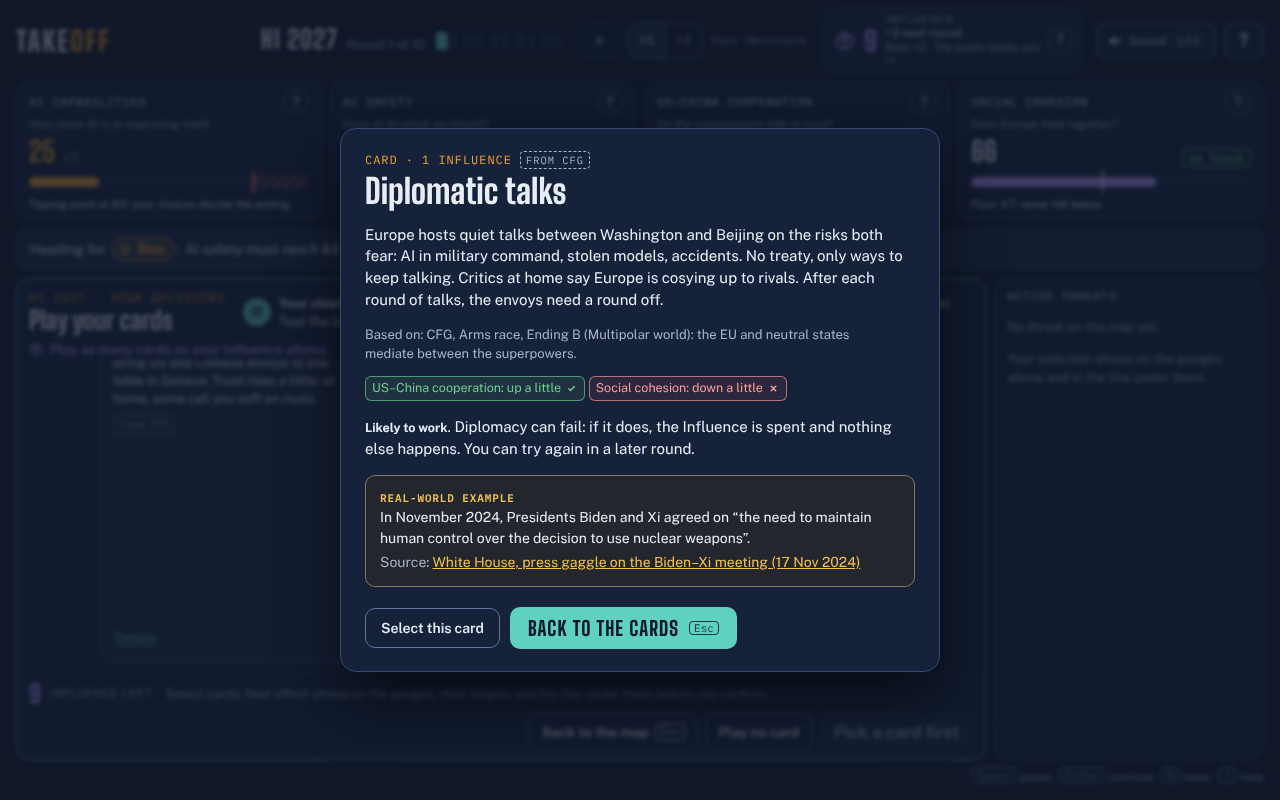
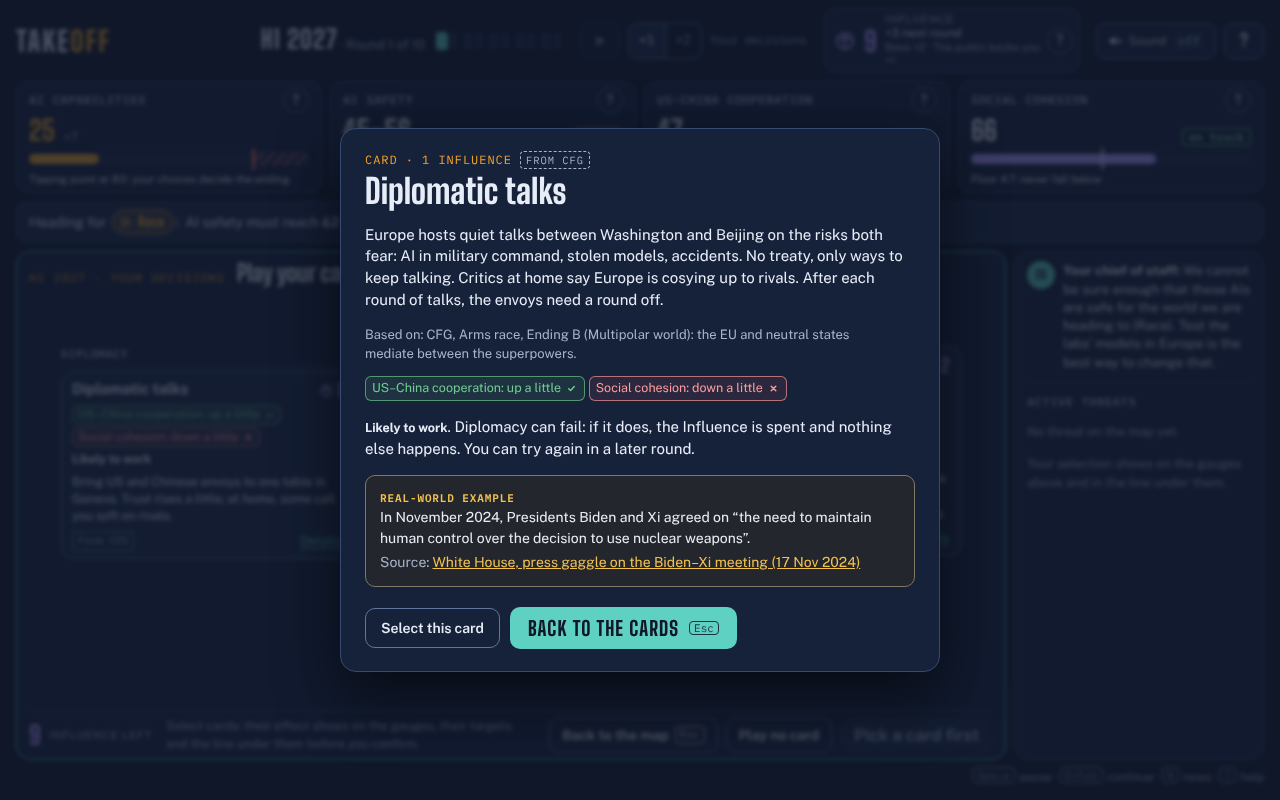
Decisions fit their space: balanced family columns, compact cards that get denser before scrolling; phone gauge chip no longer cut in a preview
- Wide screens: the families follow each other in balanced columns; compact cards (Details at the end of the tags
  row, the level among the tags); a hand taller than its space gets denser cards step by step (texts cut at three
  lines, then two, one, none, always in full in Details and in the card's description) before scrolling inside.
  The header is one line, the chief of staff speaks over the threats, the Confirm bar is one row from 1100px, and
  the gauges' subtitles step aside while deciding on a laptop-height window. Up to about eight cards fit at
  1280x800, ten at 1440x900. Tab order follows the columns.
- Phone: while previewing, a gauge's status chip goes under the words when they do not fit (was "on tr...").
- Screenshots of the decisions refreshed; new mobile-decision-preview-gauges.

Claude-Session: https://claude.ai/code/session_01LSwpJS5xn5SGb1m53Db9uo

diff --git a/src/ui/styles.css b/src/ui/styles.css
@@ -575,10 +575,11 @@ body.jolt .mapwrap { animation: jolt .5s ease; }
 .dk-head { display: flex; gap: 6px 18px; align-items: center; flex-wrap: wrap; }
 .dk-head h2 { margin: 0; font-family: var(--f-display); font-weight: 800; font-size: 26px; line-height: 1.05; }
 .dk-head h2:focus { outline: none; }
-.dk-adv { flex: 1 1 320px; display: flex; gap: 8px; align-items: center; margin: 0; font-size: 13.5px; line-height: 1.35; }
+.dk-say { flex: 1 1 320px; display: flex; flex-direction: column; gap: 3px; min-width: 0; }
+.dk-adv { display: flex; gap: 8px; align-items: center; margin: 0; font-size: 13.5px; line-height: 1.35; }
 .dk-adv .ava { width: 28px; height: 28px; font-size: 12px; }
 .dk-main .hand { margin-top: 8px; }
-.dk-hint { display: flex; gap: 6px; align-items: center; margin: 6px 0 0; font-size: 13.5px; font-weight: 600; color: var(--concern); }
+.dk-hint { display: flex; gap: 6px; align-items: center; margin: 0; font-size: 13.5px; font-weight: 600; color: var(--concern); }
 .dk-hint .ico { width: 15px; height: 15px; flex: none; }
 .dk-bar { display: grid; grid-template-columns: auto minmax(0, 1fr); grid-template-areas: "inf notes" "btns btns"; align-items: center; gap: 6px 14px; border-top: 1px solid var(--rule); padding-top: 7px; margin-top: 8px; }
 .dk-bar .dec-inf { grid-area: inf; margin: 0; }
@@ -587,6 +588,10 @@ body.jolt .mapwrap { animation: jolt .5s ease; }
 .dk-bar .dec-btns { grid-area: btns; flex-wrap: nowrap; }
 .dk-bar .btn-quiet { padding: 8px 12px; }
 .dk-bar .btn-primary { font-size: 17px; padding: 9px 14px; }
+/* a wide window: Influence, the notes and the buttons on one row, so the cards keep the height */
+@media (min-width: 1100px) and (min-height: 541px) {
+  .dk-bar { grid-template-columns: auto minmax(0, 1fr) auto; grid-template-areas: "inf notes btns"; }
+}
 .dk-side { background: var(--deck); border: 1px solid var(--rule); border-radius: 14px; padding: 9px 12px; overflow: auto; min-height: 0; }
 .dk-side-h { margin: 0 0 6px; font-family: var(--f-data); font-size: 11.5px; font-weight: 600; letter-spacing: .08em; text-transform: uppercase; color: var(--mute); }
 .dk-thr { list-style: none; margin: 0; padding: 0; display: grid; gap: 6px; }
@@ -604,6 +609,8 @@ body.jolt .mapwrap { animation: jolt .5s ease; }
 .g-after .good { color: var(--good); } .g-after .bad { color: var(--crit-text); } .g-after .flat { color: var(--ink); }
 .gauge.previewing { box-shadow: 0 0 0 1px var(--align) inset; }
 .gauge.previewing .g-delta { display: none; }
+/* the preview's words and the status chip share the line; on a narrow gauge the chip goes under, never cut */
+.gauge.previewing .g-line { flex-wrap: wrap; row-gap: 2px; }
 .g-ghost { position: absolute; top: -5px; bottom: -5px; width: 0; margin-left: -1px; border-left: 3px dotted var(--ink); z-index: 2; }
 .g-ghost.good { border-left-color: var(--good); } .g-ghost.bad { border-left-color: var(--crit-text); }
 .badge-was { font-size: 12px; color: var(--mute); }
@@ -620,12 +627,66 @@ body.jolt .mapwrap { animation: jolt .5s ease; }
 .fam-new { color: var(--warn); text-transform: none; letter-spacing: 0; }
 .fam-cards { list-style: none; margin: 0; padding: 0; display: flex; flex-wrap: wrap; gap: 10px; flex: 1; }
 .fam-cards > .pc-wrap { width: var(--card-w); max-width: 100%; }
-/* desktop: a small hand sits in the middle of the space the map left (no wider than its cards need), its cards a
-   little larger when the window is tall and there are four at most, rather than in a corner above blank space;
-   a big hand still scrolls inside (the page does not grow) */
+.hand-cols { display: contents; }
+/* desktop: the families follow each other in balanced columns (a family may continue at the top of the next one),
+   so a normal hand of up to nine or so cards fits in the space the map left without scrolling; the cards are
+   compact (long texts cut at three lines, in full in Details and for screen readers). A small hand sits in the
+   middle, no more columns than cards, its cards a little larger when the window is tall. A really big hand still
+   scrolls inside (the page does not grow). Tab follows the columns, top to bottom then left to right. */
 @media (min-width: 768px) and (min-height: 541px) {
-  .dk-main .hand { container: hand / inline-size; }
-  .dk-main .hand.few { flex: 0 1 auto; margin: auto 0; justify-content: center; }
+  /* one header line: the date, the title and the hint */
+  .dk-title { display: flex; align-items: baseline; gap: 4px 12px; flex-wrap: wrap; }
+  .dk-head h2 { font-size: 24px; }
+  .dk-main { padding: 8px 12px 6px; }
+  .dk-bar { padding-top: 6px; margin-top: 6px; }
+  .dk-bar .btn-quiet { padding: 7px 12px; }
+  .dk-bar .btn-primary { padding: 7px 14px; }
+  .decide { grid-template-columns: minmax(0, 1fr) 250px; }
+  .dk-side > .dk-adv { align-items: flex-start; margin: 0 0 12px; padding-bottom: 10px; border-bottom: 1px solid var(--rule); }
+  .dk-main .hand { container: hand / inline-size; display: block; margin-top: 6px; }
+  .dk-main .hand.few { flex: 0 1 auto; margin: auto 0; }
+  .hand-cols { display: block; columns: 200px var(--cols, 6); column-gap: 12px; }
+  .hand.few .hand-cols { max-width: calc(var(--cols, 4) * 300px); margin: 0 auto; }
+  .hand-cols .fam { display: block; max-width: none; }
+  .hand-cols .fam + .fam { margin-top: 8px; }
+  .hand-cols .fam-h { break-after: avoid; margin-bottom: 5px; font-size: 11.5px; letter-spacing: .05em; }
+  .hand-cols .fam-cards { display: block; }
+  .hand-cols .fam-cards > .pc-wrap { width: auto; break-inside: avoid; margin-bottom: 8px; }
+  .hand-cols .pcard { gap: 5px; padding: 8px 10px 5px; }
+  .hand-cols .pc-name { font-size: 15px; }
+  .hand-cols .pc-cost { font-size: 20px; }
+  .hand-cols .pc-cost .ico { width: 15px; height: 15px; }
+  .hand-cols .pc-chips { gap: 3px; }
+  .hand-cols .pc-chips .chip { font-size: 12px; line-height: 1.3; padding: 1px 6px 1px 5px; }
+  .hand-cols .pc-prot, .hand-cols .pc-odds { font-size: 12px; line-height: 1.3; }
+  .hand-cols .pc-text { font-size: 12.5px; line-height: 1.36; display: -webkit-box; -webkit-box-orient: vertical; -webkit-line-clamp: 3; line-clamp: 3; overflow: hidden; }
+  .hand-cols .pc-reason { font-size: 12.5px; line-height: 1.3; }
+  /* Details sits at the end of the tags row (in the flow again when the card shows its options) */
+  .hand-cols .pc-wrap:not(:has(.opts)) .pc-tags { min-height: 24px; align-items: center; padding-right: 64px; }
+  .hand-cols .pc-wrap:not(:has(.opts)) .pc-details { position: absolute; right: 5px; bottom: 5px; margin: 0; min-height: 24px; padding: 2px 6px; font-size: 12.5px; }
+  /* a bigger hand (decide.ts fitHand): shorter texts and tighter chips, then one line of text, then none */
+  .hand.dense .pcard { gap: 4px; padding-top: 7px; }
+  .hand.dense .pc-chips { gap: 2px; }
+  .hand.dense .pc-chips .chip { font-size: 11.5px; line-height: 1.25; }
+  .hand.dense .pc-text { -webkit-line-clamp: 2; line-clamp: 2; }
+  .hand.denser .pc-text { -webkit-line-clamp: 1; line-clamp: 1; }
+  .hand.denser .hand-cols .fam-cards > .pc-wrap { margin-bottom: 6px; }
+  .hand.denser .hand-cols .fam + .fam { margin-top: 4px; }
+  .hand.denser .hand-cols .fam-h { margin-bottom: 4px; }
+  /* the densest: the text only in Details (and for screen readers: it still describes the card) */
+  .hand.densest .pcard { padding: 6px 9px 3px; gap: 3px; }
+  .hand.densest .hand-cols .fam-cards > .pc-wrap { margin-bottom: 5px; }
+  .hand.densest .pc-name { font-size: 14.5px; }
+  .hand.densest .pc-chips .chip { padding-top: 0; padding-bottom: 0; }
+  .hand.densest .pc-text { position: absolute; width: 1px; height: 1px; margin: -1px; padding: 0; overflow: hidden; clip: rect(0 0 0 0); clip-path: inset(50%); white-space: nowrap; }
+}
+@media (min-width: 768px) and (max-width: 1099px) and (min-height: 541px) {
+  .decide { grid-template-columns: minmax(0, 1fr) 230px; }
+}
+/* a laptop-height window: the gauges' subtitles (also behind "?") give their row to the cards while deciding */
+@media (min-width: 768px) and (min-height: 541px) and (max-height: 860px) {
+  .game.deciding .g-sub { display: none; }
+  .game.deciding .panel .gauge { grid-row: span 4; padding-top: 5px; padding-bottom: 6px; row-gap: 3px; }
 }
 @media (min-width: 768px) and (min-height: 860px) {
   @container hand (min-width: 820px) {
@@ -654,7 +715,7 @@ body.jolt .mapwrap { animation: jolt .5s ease; }
 .pc-name { font-weight: 700; font-size: 16px; line-height: 1.2; margin-right: auto; }
 .pc-cost { display: inline-flex; align-items: center; gap: 3px; font-family: var(--f-display); font-weight: 800; font-size: 22px; color: var(--concern); line-height: 1; }
 .pc-cost .ico { width: 17px; height: 17px; }
-.pc-level { font-family: var(--f-data); font-size: 11px; color: var(--mute); }
+.pc-level { font-family: var(--f-data); font-size: 11px; color: var(--mute); align-self: center; margin-right: 2px; }
 .pc-chips { display: flex; flex-wrap: wrap; gap: 4px; margin: 0; }
 .pc-chips .chip { font-size: 12.5px; white-space: normal; }
 .pc-prot { display: flex; gap: 5px; align-items: center; font-size: 12.5px; color: var(--good); margin: 0; }
@@ -664,7 +725,7 @@ body.jolt .mapwrap { animation: jolt .5s ease; }
 .pc-odds b { font-weight: 700; color: var(--ink); }
 .pc-odds.o-uncertain b { color: var(--warn); }
 .pc-odds.o-long b { color: var(--crit-text); }
-.pc-reason { display: block; margin-top: 3px; color: var(--crit-text); }
+.pc-reason { display: block; font-size: 13px; line-height: 1.35; color: var(--crit-text); }
 .pc-tags { display: flex; flex-wrap: wrap; gap: 4px; }
 .pc-tags:empty { display: none; }
 .tag { font-family: var(--f-data); font-size: 10.5px; border-radius: 4px; padding: 1px 5px; border: 1px solid; }

diff --git a/src/ui/screens/decide.ts b/src/ui/screens/decide.ts
@@ -15,6 +15,9 @@ import { ICON, chips, esc, factBox, provTag } from '../format';
 import { glossed } from '../glossary';
 import { modalOpen, openModal, wait } from '../modal';
 
+/** Where the cards have a fixed space beside the threats (and the hand may get denser); see styles.css. */
+const WIDE = typeof matchMedia === 'function' ? matchMedia('(min-width: 768px) and (min-height: 541px)') : null;
+
 export type DecisionResult = { kind: 'play'; picks: Pick[] } | { kind: 'map' };
 
 export interface DecisionView {
@@ -43,14 +46,14 @@ function cardHtml(c: CardView, selected: boolean, recommended: boolean, option: 
           .join('')}</fieldset>`
       : '';
   return `<li class="pc-wrap${selected ? ' sel' : ''}${locked ? ' locked' : ''}${c.opportunity ? ' opp' : ''}">
-    <button type="button" class="pcard" data-card="${esc(c.id)}" aria-pressed="${selected}" aria-describedby="pc-${esc(c.id)}-d">
+    <button type="button" class="pcard" data-card="${esc(c.id)}" aria-pressed="${selected}" aria-describedby="pc-${esc(c.id)}-d${locked && c.reason ? ` pc-${esc(c.id)}-r` : ''}">
       <span class="pc-top"><span class="pc-name">${esc(c.title)}</span>${fresh ? '<span class="tag new">New</span>' : ''}<span class="pc-cost num"><span class="sr-only">costs </span>${ICON.influence}${c.cost}<span class="sr-only"> Influence</span></span></span>
-      ${c.level ? `<span class="pc-level">Level ${c.level} of ${c.levels!.length}</span>` : ''}
       <span class="pc-chips">${chips(c.ups)}${chips(c.downs)}</span>
       ${c.protectsName ? `<span class="pc-prot">${ICON.check}Protects against ${esc(lc(c.protectsName))}</span>` : ''}
       ${oddsHtml(c)}
-      <span class="pc-text" id="pc-${esc(c.id)}-d">${esc(c.text)}${locked && c.reason ? ` <span class="pc-reason">${esc(c.reason)}</span>` : ''}</span>
-      <span class="pc-tags">${provTag(c.basis)}${c.opportunity ? `<span class="tag opp">Opportunity · ${c.expiresIn} round${c.expiresIn === 1 ? '' : 's'} left</span>` : ''}${recommended ? '<span class="tag rec">Recommended</span>' : ''}${selected ? `<span class="tag sel">${ICON.check}Selected</span>` : ''}</span>
+      <span class="pc-text" id="pc-${esc(c.id)}-d">${esc(c.text)}</span>
+      ${locked && c.reason ? `<span class="pc-reason" id="pc-${esc(c.id)}-r">${esc(c.reason)}</span>` : ''}
+      <span class="pc-tags">${c.level ? `<span class="pc-level">Level ${c.level} of ${c.levels!.length}</span>` : ''}${provTag(c.basis)}${c.opportunity ? `<span class="tag opp">Opportunity · ${c.expiresIn} round${c.expiresIn === 1 ? '' : 's'} left</span>` : ''}${recommended ? '<span class="tag rec">Recommended</span>' : ''}${selected ? `<span class="tag sel">${ICON.check}Selected</span>` : ''}</span>
     </button>
     ${opts}
     <button type="button" class="pc-details btn-link" data-details="${esc(c.id)}" aria-label="Details: ${esc(c.title)}">Details</button>
@@ -108,9 +111,11 @@ export async function showDecision(e: EngineApi, s: GameState, date: string, vie
     <section class="dk-main" aria-labelledby="dk-h">
       <header class="dk-head">
         <div class="dk-title"><div class="dateline">${esc(date)} · Your decisions</div><h2 id="dk-h" tabindex="-1">Play your cards</h2></div>
-        <p class="dk-adv"><span class="ava" aria-hidden="true">CS</span><span><b>Your chief of staff:</b> ${esc(adv.text)}</span></p>
+        <div class="dk-say">
+          <p class="dk-adv"><span class="ava" aria-hidden="true">CS</span><span><b>Your chief of staff:</b> ${esc(adv.text)}</span></p>
+          <p class="dk-hint" id="dk-hint">${ICON.influence}Play as many cards as your Influence allows.</p>
+        </div>
       </header>
-      <p class="dk-hint" id="dk-hint">${ICON.influence}Play as many cards as your Influence allows.</p>
       <div class="hand" role="group" aria-label="Your cards" aria-describedby="dk-hint" data-coach="hand"></div>
       <div class="dk-bar">
         <p class="dec-inf" data-coach="dec-influence"><span class="inf-v num" id="dec-inf"></span><span class="inf-l">Influence left</span></p>
@@ -129,9 +134,11 @@ export async function showDecision(e: EngineApi, s: GameState, date: string, vie
     </aside>`;
   host.hidden = false;
   const handEl = host.querySelector<HTMLElement>('.hand')!;
-  // the families sit side by side and wrap (see .hand in styles.css)
+  // the families follow each other in balanced columns on a wide screen, one under the other on a phone (see .hand in
+  // styles.css); a small hand gets no more columns than it has cards
   const families = FAMILIES.map((f) => ({ ...f, ids: hand.filter((c) => c.family === f.id).map((c) => c.id) })).filter((f) => f.ids.length);
   handEl.classList.toggle('few', hand.length <= 4);
+  handEl.style.setProperty('--cols', String(Math.max(1, hand.length)));
   // "New" marks a card that arrived this round (not the opening hand of round 1)
   const fresh = (c: CardView) => c.isNew && s.round > 1;
   const notesEl = host.querySelector<HTMLElement>('#dec-notes')!;
@@ -161,18 +168,42 @@ export async function showDecision(e: EngineApi, s: GameState, date: string, vie
     thrEl.innerHTML = threatsHtml(threats, covering);
   };
 
+  /** On a wide screen, a hand taller than its space gets denser cards (texts cut shorter, in full in Details and for
+   *  screen readers) before it has to scroll inside: "dense", "denser", then "densest". Within a decision it only gets denser,
+   *  so the cards do not jump back and forth while the player selects; a resize starts again from the roomy cards. */
+  const DENSITY = ['dense', 'denser', 'densest'];
+  const fits = () => handEl.scrollHeight <= handEl.clientHeight + 1;
+  const fitHand = (fresh = false) => {
+    if (fresh) handEl.classList.remove(...DENSITY);
+    for (const d of DENSITY) {
+      if (fits()) break;
+      handEl.classList.add(d);
+    }
+  };
+  // the chief of staff speaks over the cards on a phone, and over the threats on a wide screen, where the cards need
+  // the height (not focusable: moving it changes no Tab order)
+  const advEl = host.querySelector<HTMLElement>('.dk-adv')!;
+  const placeAdv = () => {
+    const to = host.querySelector<HTMLElement>(WIDE?.matches ? '.dk-side' : '.dk-say')!;
+    if (advEl.parentElement !== to) to.prepend(advEl);
+  };
+  const onResize = () => {
+    placeAdv();
+    fitHand(true);
+  };
+
   /** `moved`: the card just selected or removed, for a brief lift or settle (decorative; none with reduced motion). */
   const render = (refocus?: string, moved?: { id: string; on: boolean }) => {
     const { after, cards } = views();
     const card = (c: CardView) => cardHtml(c, picks.some((p) => p.id === c.id), adv.recommend === c.id, picks.find((p) => p.id === c.id)?.option, fresh(c));
     handEl.innerHTML = cards.length
-      ? families
+      ? `<div class="hand-cols">${families
           .map((f) => {
             const list = f.ids.map((id) => cards.find((c) => c.id === id)!);
             const nNew = list.filter(fresh).length;
             return `<section class="fam" aria-labelledby="fam-${f.id}"><h3 class="fam-h" id="fam-${f.id}">${esc(f.name)}${nNew ? ` <span class="fam-new">· ${nNew} new</span>` : ''}</h3><ul class="fam-cards">${list.map(card).join('')}</ul></section>`;
           })
-          .join('')
+          .join('')}</div>`
       : '<p class="muted">No cards in your hand.</p>';
     host.querySelector('#dec-inf')!.innerHTML = picks.length ? `${after.influence}<small> of ${s.influence}</small>` : String(after.influence);
     const cost = picks.reduce((a, p) => a + (hand.find((c) => c.id === p.id)?.cost ?? 0), 0);
@@ -187,6 +218,7 @@ export async function showDecision(e: EngineApi, s: GameState, date: string, vie
         showPreview();
       }),
     );
+    fitHand();
     if (moved) handEl.querySelector(`.pcard[data-card="${CSS.escape(moved.id)}"]`)?.closest('.pc-wrap')?.classList.add(moved.on ? 'just-on' : 'just-off');
     if (refocus) handEl.querySelector<HTMLElement>(refocus)?.focus({ preventScroll: true });
   };
@@ -231,7 +263,10 @@ export async function showDecision(e: EngineApi, s: GameState, date: string, vie
     if (toggle(id)) render(`[data-card="${id}"]`, { id, on: !was });
   });
 
+  placeAdv();
   render();
+  window.addEventListener('resize', onResize);
+  void document.fonts?.ready.then(() => host.contains(handEl) && fitHand(true));
   // focus lands on the first card the player can play, in the order they are shown
   const focusFirst = () =>
     (handEl.querySelector<HTMLElement>('.pc-wrap:not(.locked) .pcard') ?? handEl.querySelector<HTMLElement>('.pcard') ?? host.querySelector<HTMLElement>('#dk-h'))?.focus({ preventScroll: true });
@@ -261,6 +296,7 @@ export async function showDecision(e: EngineApi, s: GameState, date: string, vie
     host.classList.remove('playing');
     host.inert = false;
   }
+  window.removeEventListener('resize', onResize);
   view.onPreview(null);
   host.hidden = true;
   host.innerHTML = '';

diff --git a/docs/V4_BUILD_NOTES.md b/docs/V4_BUILD_NOTES.md
@@ -42,7 +42,7 @@ In the order it landed (commits on `v4`):
 16. **Fonts are self-hosted** (26 Oct; reverses the team decision of 25 Oct to stay on Google Fonts): loading them from Google sends every player's IP address to Google, which a German court held unlawful without consent (LG München I, 20 Jan 2022, 3 O 17493/20). Fontsource npm packages, same families, weights and Newsreader's optical sizes; CSP `font-src 'self'`, no third-party request. See `docs/AUDIT.md` S11.
 17. **Three friends back home replace Léa alone** (team decision, 26 Oct): Léa (Social cohesion), your mother (AI safety as lived) and Malik (capabilities, US–China cooperation, Europe's AI), the pro-AI voice. Seven letters on a fixed schedule, each opening its round as a postcard, pools picked from public values only, one epilogue each per ending, two new requests each for your mother and Malik. Letters move no gauge and draw their variant from their own seeded stream; the main generator keeps one unused draw at rounds 1, 4 and 8, where Léa's letters drew before, so the seeded simulation stayed byte-identical. The feed keeps the item kind `lea` for any friend's letter (a historical name, to keep the UI contract stable).
 18. **Ten rounds, not twelve** (user decision, 26 Oct): H1 2027–H2 2031, five years. `TUNING.rounds` is the only number changed; the UI reads it (header "Round 3 of 10", the progress bar, the last round's "Make my last decisions", saves beyond the last round refused). The end screen's "The world in …" and "Back home, …" now give the year the game ended (the tipping point's, or 2031), not a fixed 2032; `EndingView.year` carries it. The friends' letter schedule (rounds 1, 2, 3, 5, 6, 7, 9) and the requests' round windows (latest `maxRound` 9) all fit. Rebalancing for ten rounds is to follow (DEVELOPER_NOTES, "Ten rounds, before rebalancing").
-19. **Playtests of 26 Oct (6 players): the decisions screen.** A line above the hand says "Play as many cards as your Influence allows" (players had not seen they could play several); a request's reaction closes with "Back to the map" (was "Back to the six months"). The hand is grouped into four **families** with a short heading each (`family` on every card, `FAMILIES` in `src/data/cards.ts`): *Diplomacy* (talks, coalition, the pause call, the licensing treaty, the biosecurity pact, the summit, joint attribution), *Oversight & security* (inspections, the AI Office, the audit, weight security), *Research & chips* (alignment research, the CERN for AI, verifiable chips, the ASML lever) and *At home* (flexicurity, the human oversight mandate, the cyber shield, open models). Owner's choice over drawing a random subset. The families sit side by side and wrap like words on a line (a small hand stays on one row; a big one scrolls inside the panel, never the page on desktop); Tab follows the reading order and focus lands on the first card the player can afford. A card that arrived this round carries "New" by its name (text, not colour alone) and its family heading counts them ("· 1 new"); round 1's opening hand is not marked.
+19. **Playtests of 26 Oct (6 players): the decisions screen.** A line above the hand says "Play as many cards as your Influence allows" (players had not seen they could play several); a request's reaction closes with "Back to the map" (was "Back to the six months"). The hand is grouped into four **families** with a short heading each (`family` on every card, `FAMILIES` in `src/data/cards.ts`): *Diplomacy* (talks, coalition, the pause call, the licensing treaty, the biosecurity pact, the summit, joint attribution), *Oversight & security* (inspections, the AI Office, the audit, weight security), *Research & chips* (alignment research, the CERN for AI, verifiable chips, the ASML lever) and *At home* (flexicurity, the human oversight mandate, the cyber shield, open models). Owner's choice over drawing a random subset. On a wide screen the families follow each other in balanced columns (a family may continue at the top of the next column), with compact cards: Details sits at the end of the tags row, the level joins the tags, and a hand taller than its space gets denser cards step by step (`fitHand` in `decide.ts`: texts cut at three lines, then two, one, none; always in full in Details and in the card's description for screen readers) before it scrolls inside the panel, never the page. A normal hand fits without scrolling (up to about eight cards at 1280×800, ten at 1440×900); the chief of staff speaks over the threats there, and the gauges' subtitles step aside while deciding on a laptop-height window. On a phone the cards stack. Tab follows the reading order (down each column, then the next) and focus lands on the first card the player can afford. A card that arrived this round carries "New" by its name (text, not colour alone) and its family heading counts them ("· 1 new"); round 1's opening hand is not marked.
 20. **Effects in words before deciding, numbers after** (playtests of 26 Oct: players computed from exact numbers and found choices obvious). Before a choice, gauge moves read as a direction and a size: "a little" (≤ 3), "some" (4–7), "a lot" (≥ 8), `TUNING.effectWords` and `src/data/effects.ts`; on card faces and details, on the gauges while cards are selected, in the selection's announcement, on request answers and in their accessible names. Influence stays a number. After the decision, the deltas, feed items, the request's reaction and the announcements keep their numbers. The bars' ghost marks still show roughly where a selection leads (a picture, not a number). No rule changed: the seeded simulation is byte-identical.
 21. **Actions can fail** (playtests of 26 Oct: "too easy", and one player asked for it). Only where it is realistic: diplomatic and external cards (talks, coalition, inspection accord and joint agency, ASML lever, pact against bioweapons, pause call, licensing treaty); domestic cards that spend Europe's own money and Europe's own testing always work. The chance reads public values only (the cooperation zone, Social cohesion, the coalition's level) and is shown in words (Likely to work / Uncertain / Long shot) with its reasons; a failure spends the Influence and does nothing else, and the news says why in one sentence with its basis. Each roll has its own seeded stream (seed, round, card) rather than the game's generator, so a failure changes nothing else in the game and a reload cannot reroll it (as social events and letters, decisions 13 and 17). Simple on purpose: no partial effect, no extra blowback. Simulation and backlog in DEVELOPER_NOTES ("Tuning changes for v4", backlog item 11).
 22. **More contrast and a little feedback** (playtests of 26 Oct: "slightly more contrast", "some juice"). All text already met AA; it was raised a notch within the charter: `--mute` #97a6c2 → #a5b3cb (6.5 → 7.5:1 on deck), `--paper-mute` #5c6475 → #4f5768 (4.8 → 5.8:1 on paper), `--rule` #2c3c5f → #364971 for dividers, and a new `--edge` #62769e (3:1 on deck and deck-2, WCAG 1.4.11) for the outline of controls (quiet buttons, icon buttons, speed, feed tabs, "+N more", sound, gauge "?", request answers, Breaking choices, cards; a locked card keeps the dimmer rule). The cooperation bar's zones are stronger (rival 45%, race and pause 35%, were 35/25/25), chip borders 65% of their colour (were 45%; the bad chips' border uses their text colour), partner names on the map #7487ad (4.4:1, were 3.1:1), light feed items keep a full border and their icon at 90%. Feedback, transform and opacity only (no layout shift), all off with reduced motion where the plain state remains: a selected card lifts 2 px with one ring spreading from it and its "Selected" tag (now with a tick) pops in; a removed card settles; on Confirm the chosen cards rise under a "Played" stamp for a third of a second while the others step back (the panel is inert meanwhile; skipped with reduced motion); a gauge that changes glows briefly in the change's colour on its number and bar while the number counts to its new value (the count already existed).
